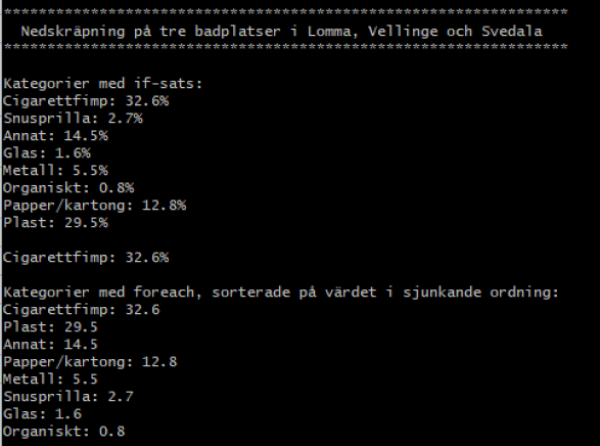
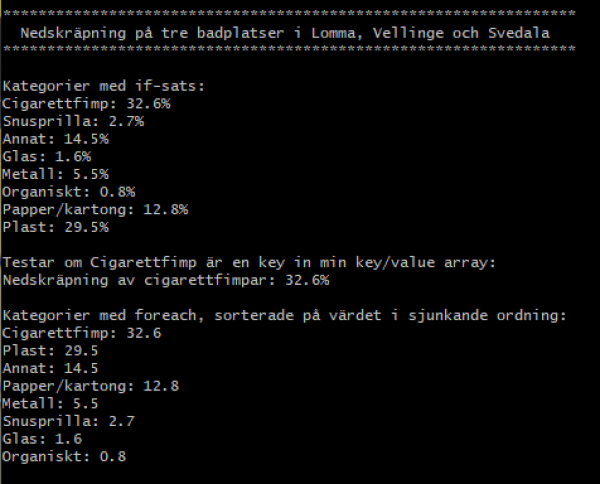
Phpuppgifter, nya bilder och extrauppgift filhantering.

Changed region(s): [[0.0, 0.0, 0.96, 1.0]]

diff --git a/content/uppgift/programmera-med-php.md b/content/uppgift/programmera-med-php.md
@@ -178,13 +178,13 @@ Uppgift 3: Tid och datum {#u3}
 
 <!-- I Sverige kan vi skaffa pass på polisstationen men om vi är i utomlands i till exempel New York så får vi gå till Svenska generalkonsulatet. Det ligger på One Dag Hammarskjöld Plaza på Manhattan. -->
 
-Företaget "Bäst Reklam" har en reklamkampanj, som startades upp i 1:e mars i år och ska lanseras den 13:e december samma år (Svensk tid). Företaget har ett litet kontor på Manhattan i New York och huvudkontoret i Karlskrona. Personalen är svensktalande men ringer varandra på konstiga tider. För att slippa väcka varandra i onödan, så vill VD:n att de anställda möts av följande välkomstmeddelande när de loggar in.  
+Företaget "Bäst Reklam" har en reklamkampanj, som startades upp i 1:e mars i år och ska lanseras på lucia den 13:e december samma år (Svensk tid). Företaget har ett litet kontor på Manhattan i New York och huvudkontoret i Karlskrona. Personalen är svensktalande men de ringer till varandra på konstiga tider. För att slippa väcka varandra i onödan, så vill VD:n att de anställda möts av följande välkomstmeddelande när de loggar in.  
 
 Lägg till menyvalet "3. Tid och datum" som ger följande utskrift.
 
 [FIGURE src=/img/webtec/php/uppgift3.png?w=c5]
 
-Döp funktionen till `printTimeAndDate()`. Tips: Antal dagar kvar kommer att variera beroende på dagens datum. Hur många sekunder går det på en dag?
+Döp funktionen till `printTimeAndDate()`. Tips: Antal dagar kvar på kampanjen kommer att variera beroende på dagens datum. Hur många sekunder går det på en dag?
 
 För tips, leta i manualen.
 
@@ -214,7 +214,7 @@ För tips, leta i manualen.
 * [strlen()](https://www.php.net/manual/en/function.strlen)
 * [strpos()](https://www.php.net/manual/en/function.strpos.php)
 * [trim()](https://www.php.net/manual/en/function.trim.php)
-* [str-replace()](https://www.php.net/manual/en/function.str-replace.php)
+* [str_replace()](https://www.php.net/manual/en/function.str-replace.php)
 * [str_word_count()](https://www.php.net/manual/en/function.str-word-count)
 
 
@@ -222,7 +222,8 @@ För tips, leta i manualen.
 Uppgift 5: Arrayer med siffror {#u5}
 -----------------------
 
-Nedskräpningen på tre badstränder i Lomma, Vellinge och Svedala mättes sommaren 2020. Här är resultatet
+Nedskräpningen på tre badstränder i Lomma, Vellinge och Svedala mättes sommaren 2020. Det som skiljer sig mest i mätningarna mot andra miljöer är att nedskräpningen av plast är så hög på stränderna. Skräpmätningen görs på samma yta av stranden varje dag i minst sju veckor.
+Se resultatet:
 
 [FIGURE src=/img/webtec/php/chartLitteringBeach.png?w=c5]
 
@@ -240,13 +241,16 @@ För tips, leta i manualen.
 * [round()](https://www.php.net/manual/en/function.round.php)
 * [array_shift()](https://www.php.net/manual/en/function.array-shift.php)
 * [array_push()](https://www.php.net/manual/en/function.array-push.php)
+* [Sorting Arrays](https://www.php.net/manual/en/array.sorting.php)
 
 
 
 Uppgift 6: Arrayer med strängar {#u6}
 -----------------------
 
-Siffrorna från uppgifter säger mer om vi får reda på vad nedskräpningen beror på, att 32.6% är cigarettfimpar. Kopiera arrayen nedan till din kod.
+32,6% av nedskräpningen på stränderna var cigarettfimpar medan den är uppmätt till 64.5% i tätort, 49.9% i förort och 43.4% i parkmiljö. Det tar cirka 1-5 år för naturen att sönderdela en cigarettfimp till mikroplast (fimpens filter innehåller plast). Mikroplast kan ta 100 år innan den försvinner, om den ens gör det. Allt enligt "Håll Sverige rent".
+
+För att få reda på vad nedskräpningen på stränderna beror på, till exempel att 32.6% är cigarettfimpar, så vill vi skapa en key/value array med orsaken som key och procenten som value. Kopiera strängen nedan till din funktion och bygg ihop en key/value array. För att du ska få träna på olika iterationer, så använder du if-sats i första och foreach-sats i andra.
 
 `"Cigarettfimp Snusprilla Annat Glas Metall Organiskt Papper/kartong Plast"`
 
@@ -260,6 +264,7 @@ För tips, leta i manualen.
 
 * [explode()](https://www.php.net/manual/en/function.explode.php)
 * [array_combine()](https://www.php.net/manual/en/function.array-combine)
+* [array_key_exists()](https://www.php.net/manual/en/function.array-key-exists)
 
 
 
@@ -280,21 +285,45 @@ Döp funktionen till `fibonacci()`.
 Extrauppgift: password  {#u12}
 ---------------------
 
-Skapa en varibel som är ditt lösenord med innehållet "Hello2world!".
+För att komma ihåg sitt lösenord så har hemlige Arne skrivit upp det. Han är dock lurig och har skrivit upp det blandat med falska lösenord. Eftersom han blev hackad av Trazan och Banarne förra året så har han "hashat" lösenordet på tre olika sätt, för att göra det svårare att hacka för dem att hacka honom igen. Du kanske kan hacka lösenordet!
 
-Gör ett nytt program som gör följande.
+Ett exempel på md5 hash på lösenordet:
 
-* Beräkna md5 hash av din variabel och skriv ut den.
-* Skapa en hash av ditt lösenord och verifiera det. Skriv ut "Lösenord är ok!" om verifieringen gick igenom.
-* Här är en sträng "Pvaqreryyn, Ynql naq gur Genzc, Byq Lryyre, Gernfher Vfynaq, Gur Whatyr Obbx". Vad innehåller den för information? Skriv ut informationen. Tips: formatet är rot13.
+```text
+# $pwd = md5("Hello2world!");
+# echo $pwd;
+# 025cfbe826280df9815be962cc272b2c
+```
 
-Lägg till menyvalet "B. Password".
+Enligt Myndigheten för samhällskydd och beredskap, så är md5 inte tillräckligt bra för att hasha lösenord. Då dagens datorer med ett modern grafikkort kan generera 7 miljarder MD5 förslag per sekund.
 
-Döp funktionen till `printPassword()`.
+Hemliga Arnes lösenord och hans lista med hashade lösenord:
+
+```text
+$password = "Hello2world!";
+$hashArray = array('Uryyb3jbeyq!', 'Uryyb2ibeyq!', 'Uryyb2jbey!', 'Uryyb2jbeyq!', 'Uryyb2jbeyg!',
+    '$2y$10$Nl1KcQWR.saeHZryyy4FueawpZqoyx.eXVglabfekJNecrdvULy/K',
+    '$2y$1O$Nl1KcQWR.saeHZryyy4FueawpZqoyx.eXVglabfekJNecrdvULy/K',
+    '$2y$10$Nl1KcQWR.saeHZryyy4FueawpZqoyx.eXVqlabfekJNecrdvULy/K',
+    '$2y$10$.tCflgh5pOcG/HVf.QsXguTUkelucRBg0CGUpRhxtrBW4ZhsK6tKu',
+    '$2y$10$.tCflgh5pDcG/HVf.QsXguTUkeluoRBg0CGUpRhxtrBW4ZhsK6tKu',
+    '$2y$10$.tCflgh5pDcG/HVf.QsXguTUkelucRBg0CGUpRhxtrBW4ZhsK6tKu');
+```
+
+Försök hitta hans hashade lösenord i listan. Det finns med tre gånger med tre olika hashmetoder.
+
+Lägg till menyvalet "B. Password" som skriver ut summan av de tre positionerna i `$hashArray` ovan.
+
+Döp funktionen till `printPassword()`. Kopiera variablerna ovan till din funktion.
 
 För tips, leta i manualen.
 
 * [`password_hash()`](https://www.php.net/manual/en/function.password-hash)
+* [`str_rot13()`](https://www.php.net/manual/en/function.str-rot13)
+
+För mer information, besök Myndigheten för samhällskydd och beredskap.
+
+* [`MSB`](https://www.cert.se/2013/03/hasha-losenord-ratt-aterkomsten)
 
 
 
@@ -312,14 +341,16 @@ cp ../../example/php/examples/*.txt .
 
 Titta på innehållet i filerna.
 
-Gör ett nytt program som gör följande.
+<!-- Gör ett nytt program som gör följande.
 
 * Kolla om filen `$file1` finns. Skriv ut "Filen sherlock.txt finns.". Använd print() och $file1 i strängen du skriver ut.
 * Läs innehållet i sherlock.txt och lägg i en sträng. Skriv ut strängen.
 * Läs innehållet i sherlock.txt från tecken 12 och 20 tecken framåt och lägg informationen i en sträng. Skriv ner strängen på en ny fil `test.txt` och skriv ut innehållet i filen `test.txt`.
-* Gör unserialize på filen `$file2` (serialized.txt) och skriv ut innehållet.
+* Gör unserialize på filen `$file2` (serialized.txt) och skriv ut innehållet. -->
 
-Lägg till menyvalet "C. Filhantering".
+Lägg till menyvalet "C. Filhantering" som ger följande utskrift. Tips: Läs innehållet i sherlock.txt från tecken 17 och 15 tecken framåt och skriv ner i en ny fil `test.txt` och skriv ut innehållet i filen `test.txt`.
+
+[FIGURE src=/img/webtec/php/uppgift13.png?w=c5]
 
 Döp funktionen till `printFile())`.
 
